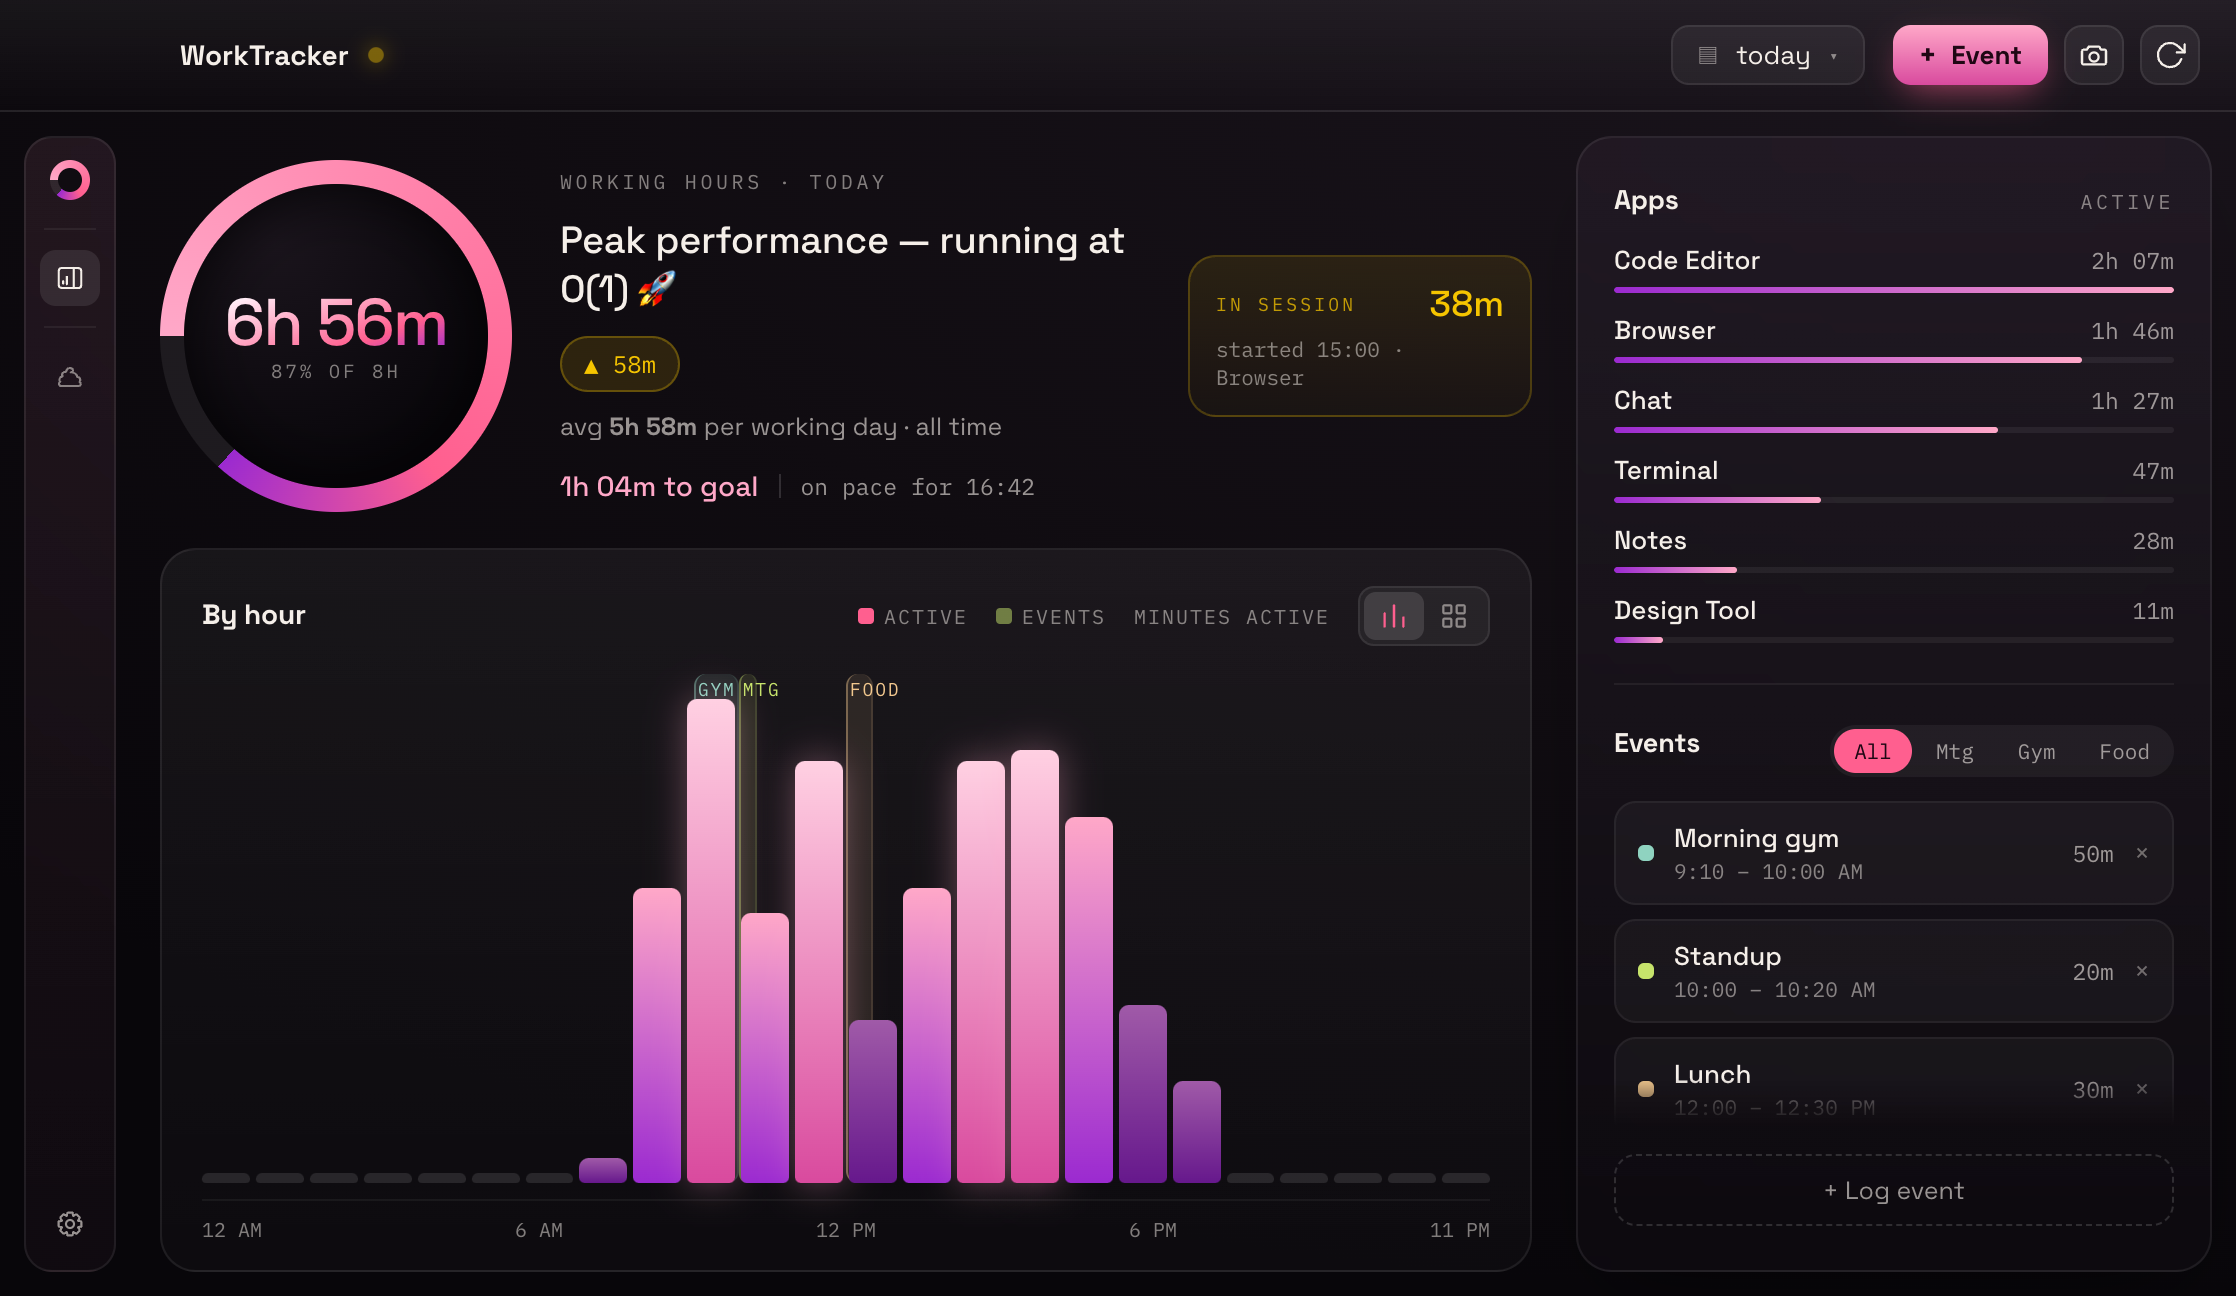
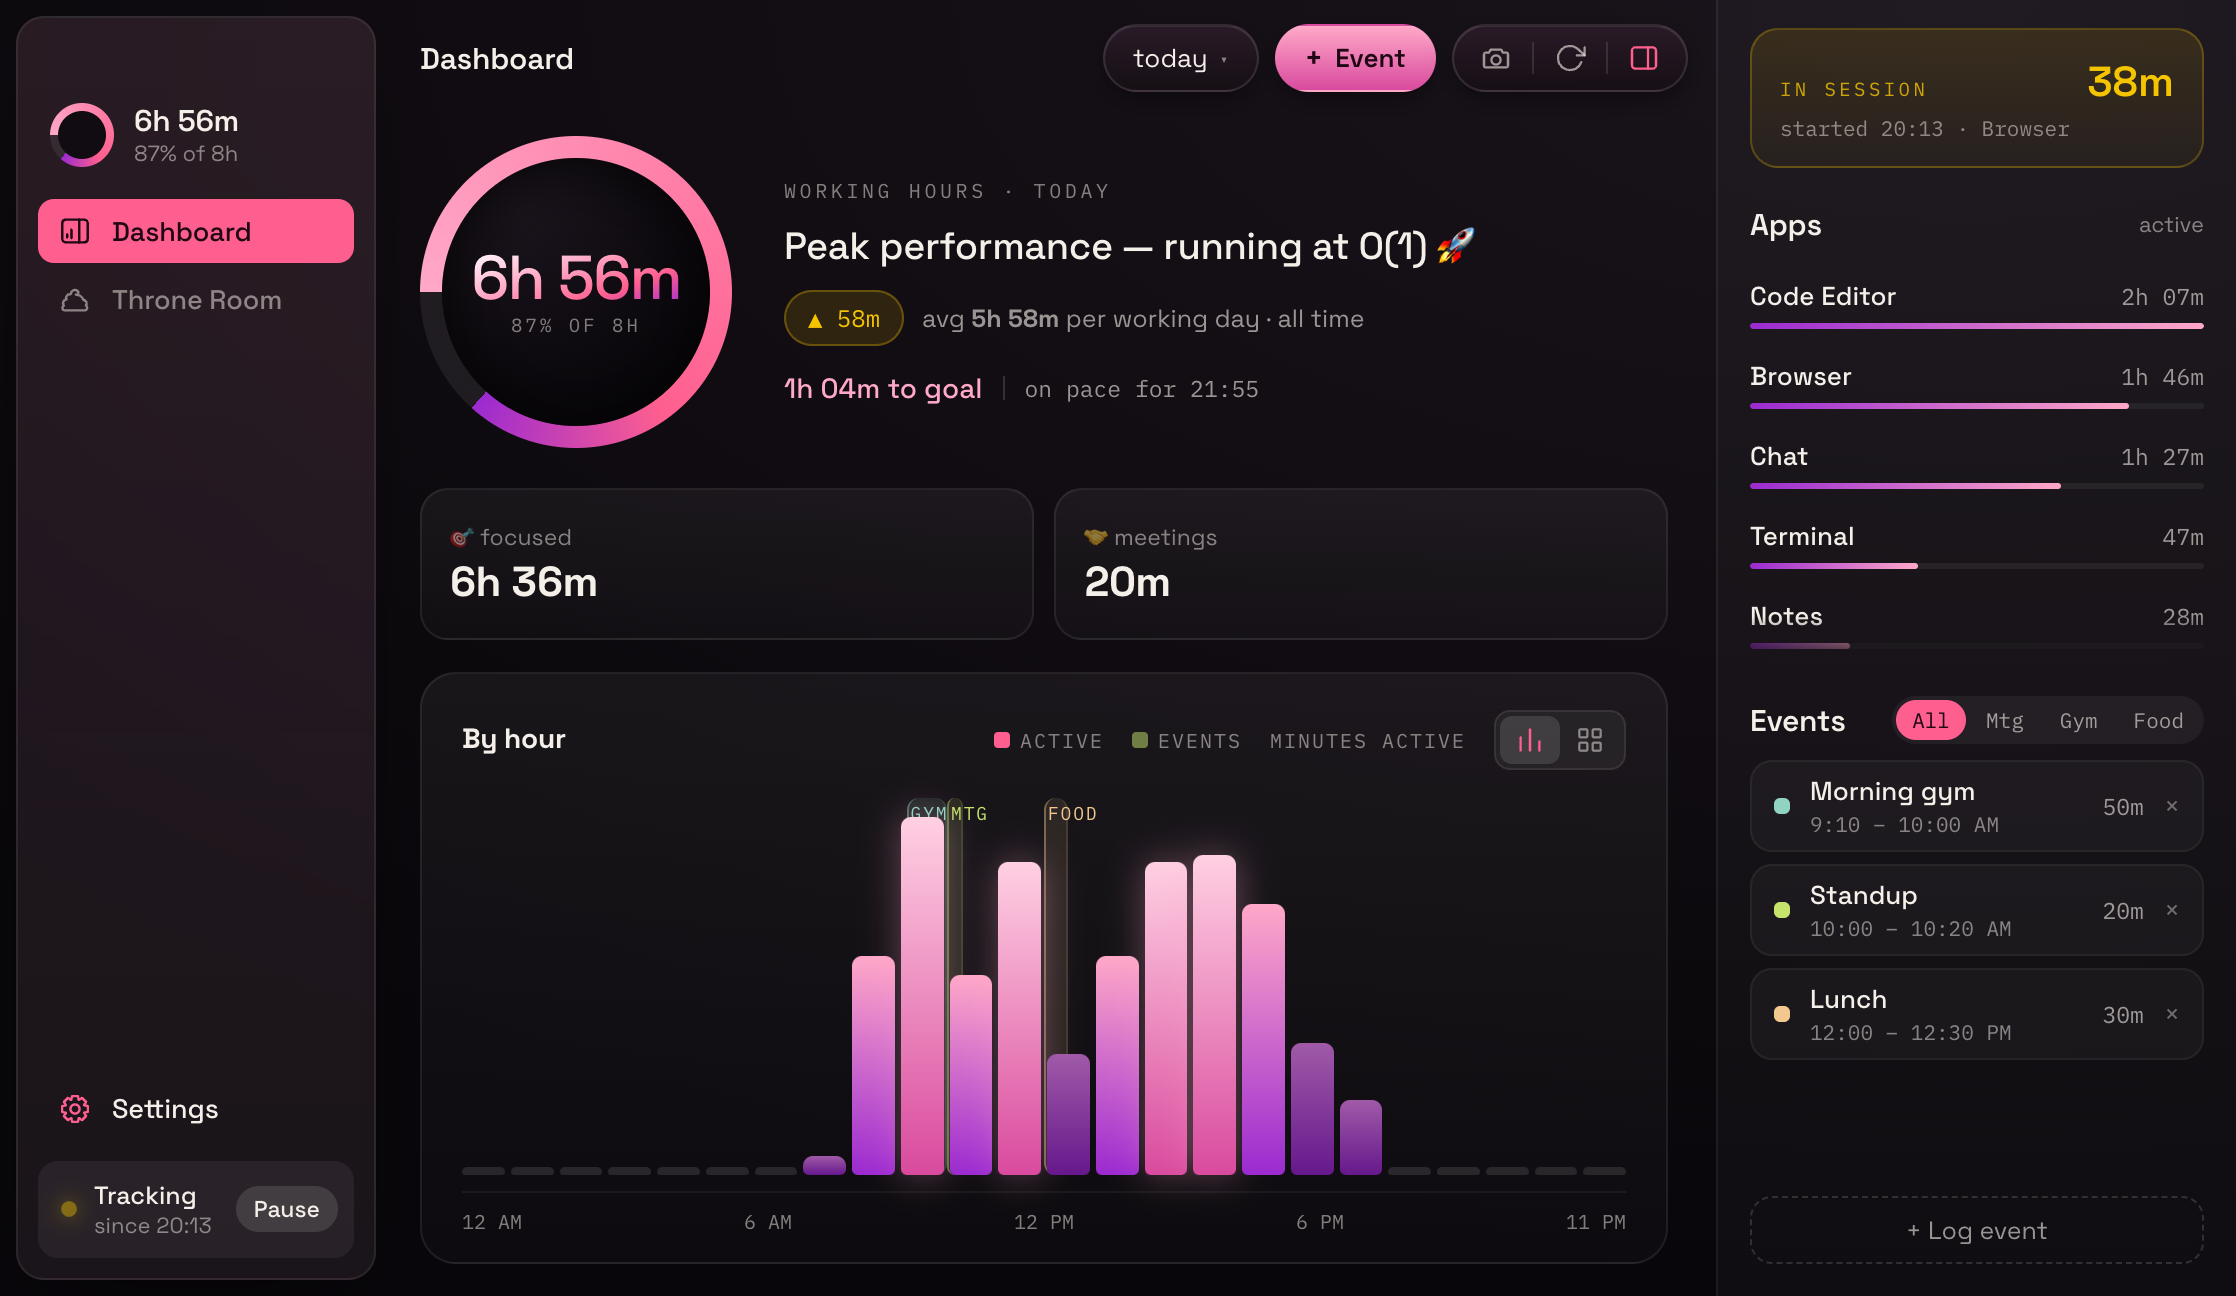
0.12.0 — Mac-style layout: README and screenshots

diff --git a/README.md b/README.md
@@ -65,8 +65,8 @@ came back to. Closing the lid counts too — a Mac that sleeps through a meeting
 offered the gap on wake. Set which gaps are worth asking about in Settings,
 anywhere from 5 minutes to 4 hours, or switch it off entirely.
 
-**Pause when you're not working.** Watching something on the commute? Click the
-status dot — or the menu-bar icon — and pick **30 min · 1 hour · until tomorrow ·
+**Pause when you're not working.** Watching something on the commute? Hit
+**Pause** at the foot of the sidebar — or use the menu-bar icon — and pick **30 min · 1 hour · until tomorrow ·
 until I resume**. Everything but the last auto-resumes when it expires, so a
 forgotten pause can't swallow your day.
 
@@ -89,24 +89,28 @@ days and holidays drop out on their own with nothing to mark.
 - **Live session** — how long this stretch of work has been going, and in which app
 - Activity **by hour, by day or by month**, as **bars or a heatmap**, with
   anything you logged drawn as bands behind today's hours
-- Your top apps and your logged events, in a floating rail
+- Your top apps and your logged events in a full-height side panel — hide it
+  from the toolbar when you want the chart wider
 - **Snapshot** — export a shareable card of whatever range you're looking at (below)
-- Drag the window narrow and it becomes a compact glance card
 - Remembers its size and position between launches
 
-### One rail, three screens
+### Laid out like a Mac app
 
-A slim rail runs down the left: the dashboard, the Throne Room, and settings.
-**Hover it and it opens** over whatever you're looking at — nothing on the page
-moves, so there's no pin to manage and no width to give up. The ring at the top
-is today's progress, and it stays with you on every screen.
+A floating sidebar runs the full height of the window, with the window controls
+inside it: the dashboard, the Throne Room and settings, today's progress ring at
+the top and the pause button at the foot — on every screen. The content sits
+between it and a side panel that runs flush to the edge, like Apple Music's, and
+the toolbar's buttons float over the content the way Finder's do, with no title
+bar at all. Make the window narrower and the content gives up room first, then
+the side panel, and then it stops — nothing ever reflows into a cramped layout.
 
 ### Settings, with room to breathe
 
-Settings is a screen now, not a popover — General, Tracking, Appearance and
-About, with the rail carrying the categories. Every control has room for a line
-saying what it actually does, and the break-detection range finally has enough
-width to label every stop on its scale instead of every other one.
+Settings is a screen, shaped like System Settings — General, Tracking and
+Appearance in the sidebar, each opening with its own header card, and back /
+forward in the toolbar. Every control has room for a line saying what it actually
+does, the break-detection range labels every stop on its scale, and the palettes
+are named instead of being six anonymous swatches.
 
 ![Settings](screenshots/settings-screen.png)
 
